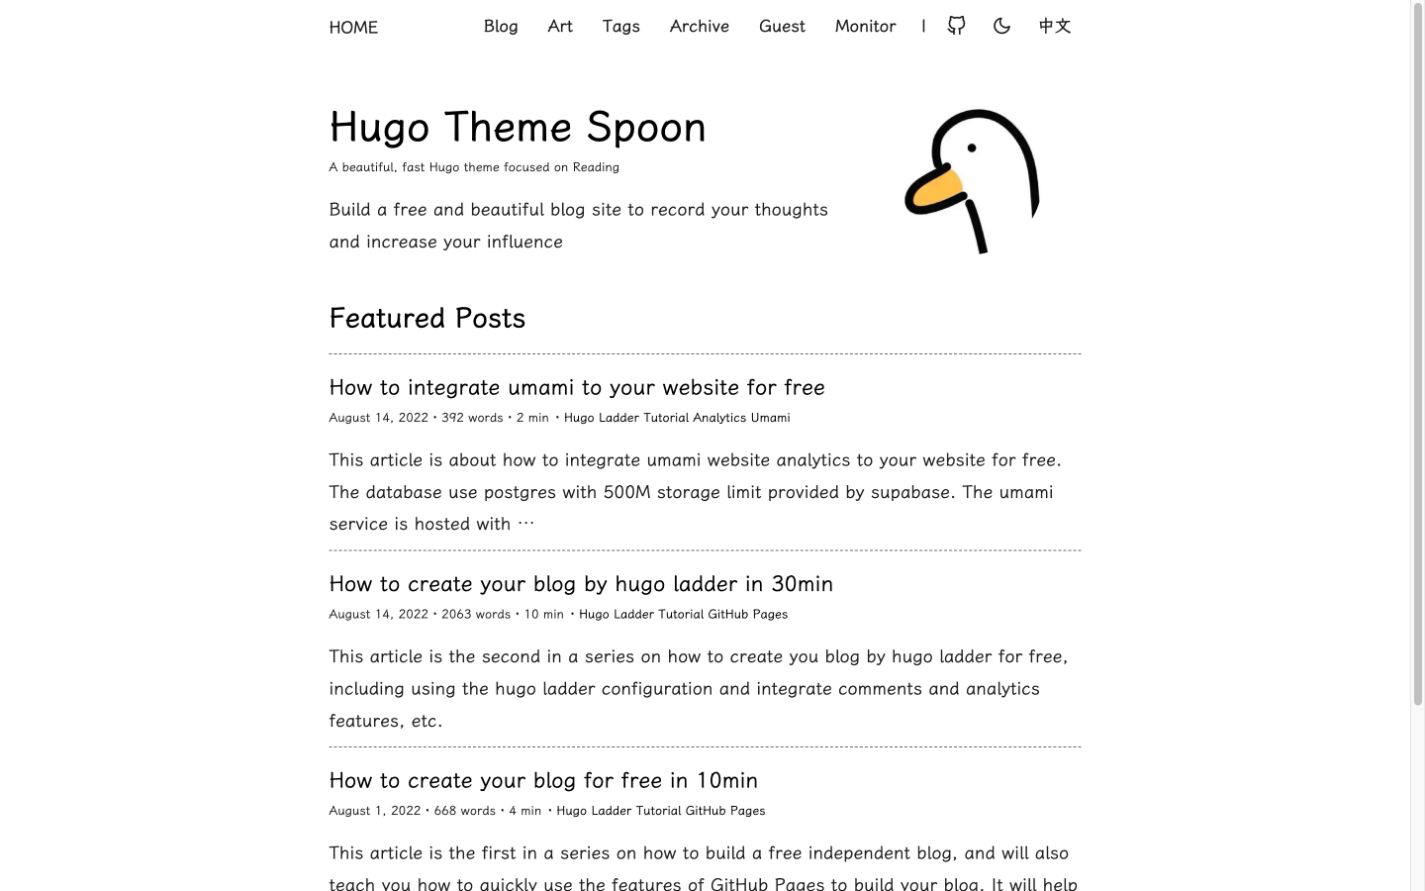
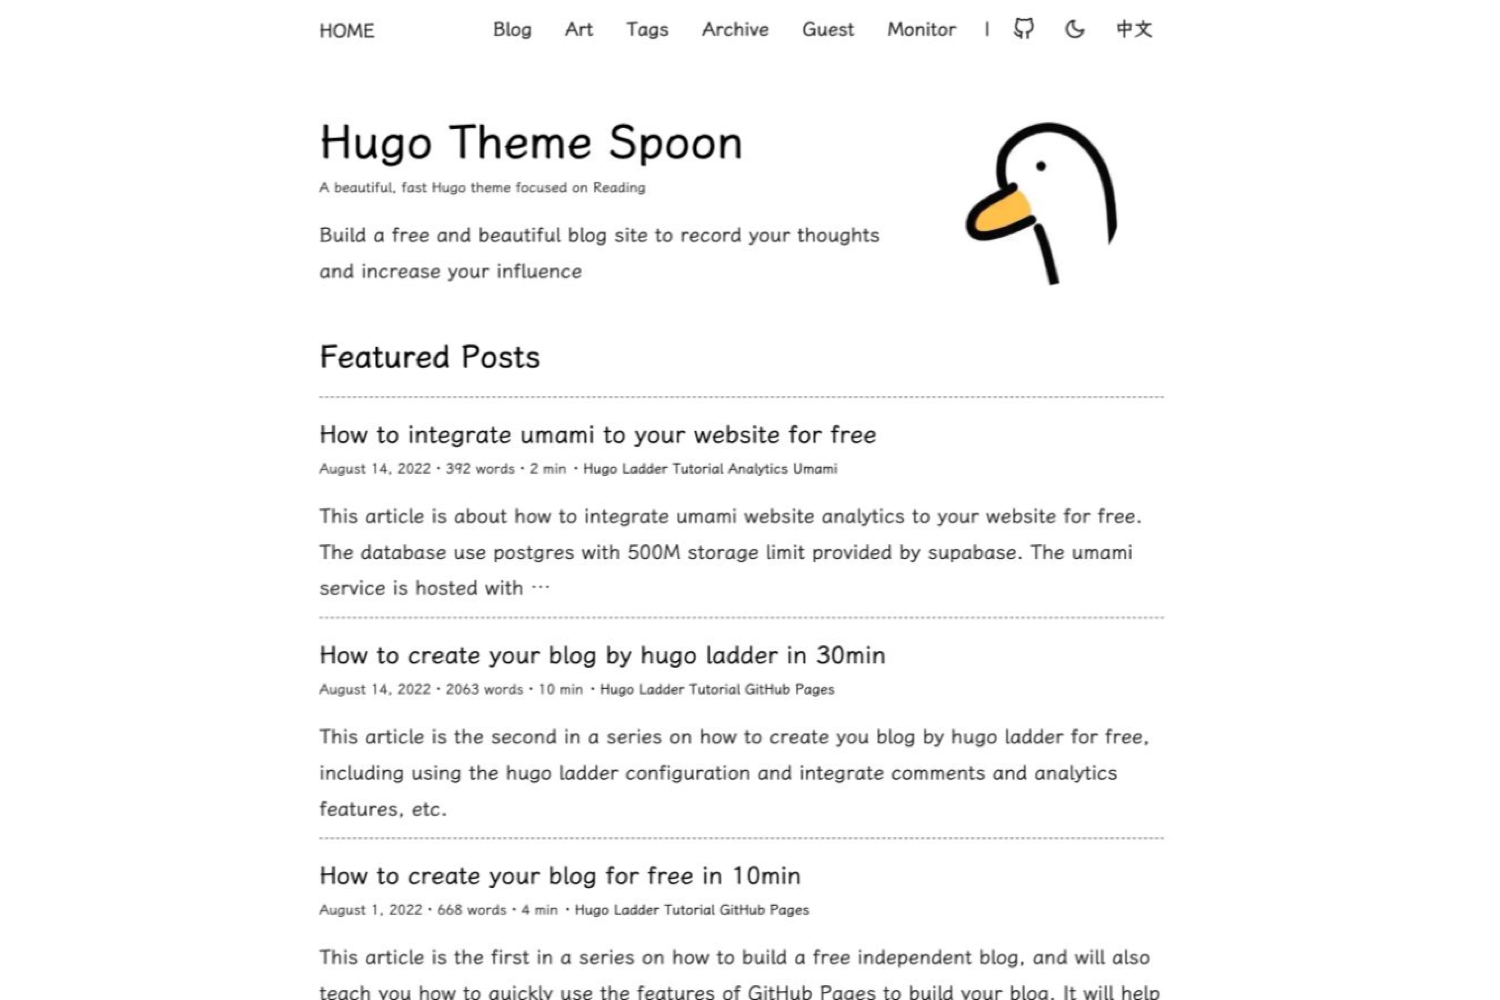
chore: prepare Hugo theme directory submission

diff --git a/README.md b/README.md
@@ -17,7 +17,7 @@
 ---
 
 <p align="center">
-  <img src="images/screenshot.png" alt="Hugo Theme Spoon home page in light mode" width="100%"/>
+  <img src="https://raw.githubusercontent.com/noneback/hugo-theme-spoon/master/images/screenshot.png" alt="Hugo Theme Spoon home page in light mode" width="100%"/>
 </p>
 
 ---
@@ -32,8 +32,8 @@ Spoon keeps long-form articles readable while giving technical content first-cla
     <td align="center"><strong>Dark mode</strong></td>
   </tr>
   <tr>
-    <td><img src="images/code-light.png" alt="Code block in light mode"/></td>
-    <td><img src="images/code-dark.png" alt="Code block in dark mode"/></td>
+    <td><img src="https://raw.githubusercontent.com/noneback/hugo-theme-spoon/master/images/code-light.png" alt="Code block in light mode"/></td>
+    <td><img src="https://raw.githubusercontent.com/noneback/hugo-theme-spoon/master/images/code-dark.png" alt="Code block in dark mode"/></td>
   </tr>
 </table>
 